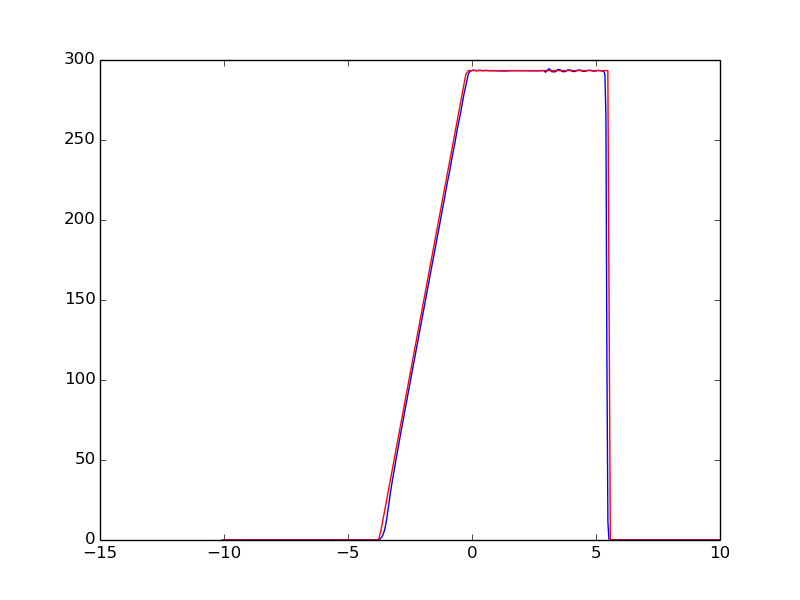
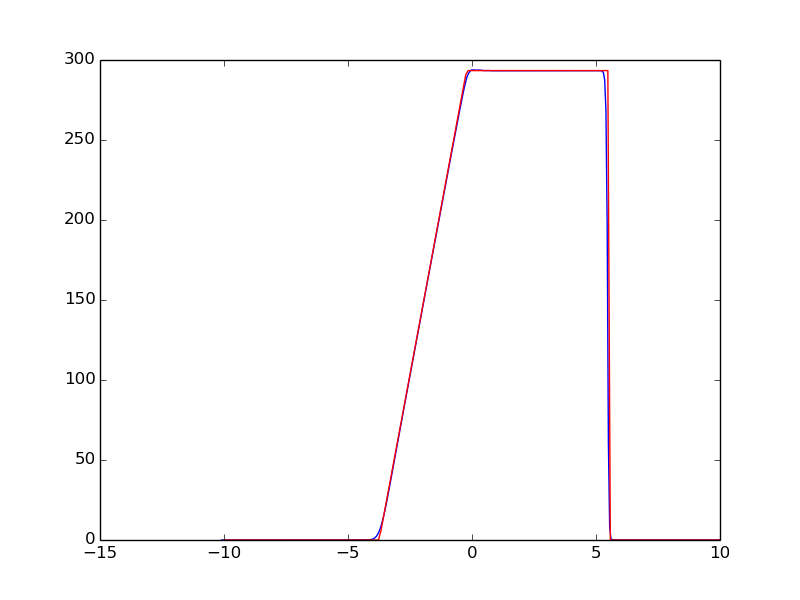
Refactoring all inputs to Initialize.cpp

diff --git a/Source/Advance.cpp b/Source/Advance.cpp
@@ -9,7 +9,7 @@
 int ND, nx, ny;
 double xmin, xmax;
 double gamma_air;
-double dx, dt;
+double dx, dt, t_end;
 
 std::vector<double> x;
 std::vector<Cell> cell;
@@ -54,32 +54,28 @@ void ComputeLimitedSlopes_PrimVar(std::vector<Cell> &cell)
 	
 	for(int i=0; i<=nx+1; i++){
 		for(int n=0; n<=ND+1; n++){
-			cell[i].slope_prim_var[n] = 0.0;
+			cell[i].slope[n] = 0.0;
 		}
 	}
 	
-	std::vector<double> prim(ND+2,0.0);
-
 	for(int i=0; i<=nx+1; i++){
-		ComputePrimitiveVariables(cell[i].cons_var, prim);
+		ComputePrimitiveVariables(cell[i].cons_var, cell[i].prim_var);
 	}
+
 
 	for(int i=0; i<=nx+1; i++){
 		for(int n=0; n<=ND+1; n++){
-			deltaU_left =  cell[i].cons_var[n]   - cell[i-1].cons_var[n];
-			deltaU_right = cell[i+1].cons_var[n] - cell[i].cons_var[n];
-			/*slope1 = minmod(deltaU_left    , 2.0*deltaU_right);
-			slope2 = minmod(2.0*deltaU_left, deltaU_right);
-			cell[i].slope[n] = maxmod(slope1, slope2);*/
+			deltaU_left =  cell[i].prim_var[n]   - cell[i-1].prim_var[n];
+			deltaU_right = cell[i+1].prim_var[n] - cell[i].prim_var[n];
+
+			// Superbee limiter
+			//slope1 = minmod(deltaU_left    , 2.0*deltaU_right);
+			//slope2 = minmod(2.0*deltaU_left, deltaU_right);
+			//cell[i].slope[n] = maxmod(slope1, slope2);
 
 			// Minmod limiter	
-			slope1 = minmod(deltaU_left    , deltaU_right);
-			cell[i].slope_prim_var[n] = slope1;	
-
-			// Van Leer MC limiter
-			//deltaU_central = cell[i+1].cons_var[n] - cell[i-1].cons_var[n];
-			//slope1 = minmod(deltaU_central, 2.0*deltaU_left, 2.0*deltaU_right);
-			//cell[i].slope[n] = slope1;	 
+			slope1 = minmod(deltaU_left, deltaU_right);
+			cell[i].slope[n] = slope1;	
 		}
 	}	
 }
@@ -91,7 +87,7 @@ void ComputeLimitedSlopes_ConsVar(std::vector<Cell> &cell)
 	
 	for(int i=0; i<=nx+1; i++){
 		for(int n=0; n<=ND+1; n++){
-			cell[i].slope_cons_var[n] = 0.0;
+			cell[i].slope[n] = 0.0;
 		}
 	}
 		
@@ -105,7 +101,7 @@ void ComputeLimitedSlopes_ConsVar(std::vector<Cell> &cell)
 
 			// Minmod limiter	
 			slope1 = minmod(deltaU_left    , deltaU_right);
-			cell[i].slope_cons_var[n] = slope1;	
+			cell[i].slope[n] = slope1;	
 
 			// Van Leer MC limiter
 			//deltaU_central = cell[i+1].cons_var[n] - cell[i-1].cons_var[n];
@@ -115,8 +111,8 @@ void ComputeLimitedSlopes_ConsVar(std::vector<Cell> &cell)
 	}	
 }
 
-template <class T>
-void ComputePrimitiveVariables(T &Q, std::vector<double> &prim)
+template <class T1, class T2>
+void ComputePrimitiveVariables(T1 &Q, T2 &prim)
 {
 	assert(Q[0] > 0.0);
 	assert(Q[ND+1] > 0.0);
@@ -228,7 +224,7 @@ void ComputeHLLCFluxOnFace(const std::vector<double> &QL, const std::vector<doub
 	ComputeHLLCFlux(SL, SR, FL, FR, S_star, FL_star, FR_star, iface);
 }
 
-void ComputeLeftAndRightStatesAndComputeFlux(std::vector<Cell> &cell, std::vector<Face> &face)
+void ComputeLeftAndRightConsVarStatesAndComputeFlux(std::vector<Cell> &cell, std::vector<Face> &face)
 {
 
 	std::vector<double> QL(ND+2,0.0), QR(ND+2,0.0);
@@ -237,14 +233,43 @@ void ComputeLeftAndRightStatesAndComputeFlux(std::vector<Cell> &cell, std::vecto
 	for(int i=2;i<=nx; i++){
 		// Compute left and right states. ie. all the conservative variables
 		for(int n=0;n<=ND+1;n++){
-			QL[n] = cell[i-1].cons_var[n] + 0.5*cell[i-1].slope_cons_var[n];  
-			QR[n] = cell[i].cons_var[n] - 0.5*cell[i].slope_cons_var[n];
+			QL[n] = cell[i-1].cons_var[n] + 0.5*cell[i-1].slope[n];  
+			QR[n] = cell[i].cons_var[n] - 0.5*cell[i].slope[n];
 		}
-		//printf("%d, %g, %g, %g\n", i, QL[0], QL[1], QL[2]);
-		//printf("%d, %g, %g, %g\n", i, QR[0], QR[1], QR[2]);
 		ComputeHLLCFluxOnFace(QL, QR, face[i]);	
 	}
 }
+
+void ComputeConservativeVariables(const std::vector<double> &P, std::vector<double> &Q) 
+{
+	
+	Q[0] = P[0];
+	Q[1] = P[0]*P[1];
+	Q[ND+1] = P[ND+1]/(gamma_air-1) + 0.5*P[0]*P[1]*P[1];
+	
+}
+
+void ComputeLeftAndRightPrimVarStatesAndComputeFlux(std::vector<Cell> &cell, std::vector<Face> &face)
+{
+
+	std::vector<double> PL(ND+2,0.0), PR(ND+2,0.0);
+	std::vector<double> QL(ND+2,0.0), QR(ND+2,0.0);
+
+	// Face loop over all faces
+	for(int i=2;i<=nx; i++){
+		// Compute left and right states. ie. all the conservative variables
+		for(int n=0;n<=ND+1;n++){
+			PL[n] = cell[i-1].prim_var[n] + 0.5*cell[i-1].slope[n];  
+			PR[n] = cell[i].prim_var[n] - 0.5*cell[i].slope[n];
+		}
+		ComputeConservativeVariables(PL, QL);
+		ComputeConservativeVariables(PR, QR);
+
+		ComputeHLLCFluxOnFace(QL, QR, face[i]);	
+	}
+}
+
+
 
 void BoundaryConditions(std::vector<Cell> &cell)
 {

diff --git a/Source/Riemann.H b/Source/Riemann.H
@@ -1,7 +1,7 @@
 class Cell{
 public:
     double cons_var[3], prim_var[3];
-	double slope_cons_var[3], slope_prim_var[3];
+	double slope[3];
 
 	//Cell(double rho_, double rhoU_, double rhoE_): 
 	//	rho(rho_), rhoU(rhoU_), rhoE(rhoE_) {};
@@ -16,7 +16,7 @@ extern int ND;
 extern int nx, ny;
 extern double xmin, xmax;
 extern double gamma_air;
-extern double dx, dt;
+extern double dx, dt, t_end;
 
 extern std::vector<double> x;
 extern std::vector<Cell> cell;
@@ -27,8 +27,9 @@ void ComputeLeftAndRightCells(const int i, Cell &cell_left, Cell &cell_right);
 double minmod(double a, double b);
 double maxmod(double a, double b);
 void ComputeLimitedSlopes_ConsVar(std::vector<Cell> &cell);
-template <class T>
-void ComputePrimitiveVariables(T &Q, std::vector<double> &prim);
+void ComputeLimitedSlopes_PrimVar(std::vector<Cell> &cell);
+template <class T1, class T2>
+void ComputePrimitiveVariables(T1 &Q, T2 &prim);
 void ComputeFluxes(const std::vector<double> &Q, std::vector<double> &flux);
 void ComputeQ_star(const std::vector<double> &Q, const double S_star, const double S,
                    const double rho, const double u, const double p,
@@ -40,7 +41,8 @@ void ComputeHLLCFlux(const double SL, const double SR,
                      const std::vector<double> &FL, const std::vector<double> &FR,
                      const double S_star, const std::vector<double> &FL_star, const std::vector<double> &FR_star,
                      Face &iface);
-void ComputeLeftAndRightStatesAndComputeFlux(std::vector<Cell> &cell, std::vector<Face> &face);
+void ComputeLeftAndRightConsVarStatesAndComputeFlux(std::vector<Cell> &cell, std::vector<Face> &face);
+void ComputeLeftAndRightPrimVarStatesAndComputeFlux(std::vector<Cell> &cell, std::vector<Face> &face);
 void ComputeHLLCFluxOnFace(const std::vector<double> &QL, const std::vector<double> &QR, Face &iface);
 void BoundaryConditions(std::vector<Cell> &cell);
 double ComputeTimeStep(const std::vector<Cell> &cell, const double CFL);

diff --git a/Source/main.cpp b/Source/main.cpp
@@ -14,12 +14,19 @@ int main(){
 	
 	// Time advance
 
-	double t_end = 0.02, time = 0.0;
+	double time = 0.0;
+
+	int niter = t_end/dt;
 	
-	for(int iter=1; iter<=400; iter++){
+	for(int iter=1; iter<niter; iter++){
 		//dt = ComputeTimeStep(cell, CFL);
-		ComputeLimitedSlopes_ConsVar(cell);
-		ComputeLeftAndRightStatesAndComputeFlux(cell, face);
+
+		//ComputeLimitedSlopes_ConsVar(cell);
+		//ComputeLeftAndRightConsVarStatesAndComputeFlux(cell, face);
+	
+		ComputeLimitedSlopes_PrimVar(cell);
+		ComputeLeftAndRightPrimVarStatesAndComputeFlux(cell, face);
+
 		std::cout << "Iteration is " << iter << " dt = " << dt << " " << "time = " << time << "\n";
 		for(int i=2; i<=nx-1; i++){
 			for(int n=0; n<=ND+1; n++){

diff --git a/Exec/Sod/Results/PlotSolution.py b/Exec/Sod/Results/PlotSolution.py
@@ -3,7 +3,7 @@ import numpy as np
 import glob
 
 
-for itern in np.arange(0,40,1):
+for itern in np.arange(0,80,1):
 	if(itern<=9):
 		solution_file = "../Solution_000" + str(itern) + ".txt";
 	elif(itern<=99):
@@ -20,8 +20,8 @@ for itern in np.arange(0,40,1):
 	pressure = (solution[:,3] - 0.5*solution[:,2]**2/solution[:,1])*0.4;
 	uvel = solution[:,2]/solution[:,1];
 
-	plt.plot(solution[:,0], solution[:,1])
-	#plt.plot(solution[:,0], pressure)
+	#plt.plot(solution[:,0], solution[:,1])
+	plt.plot(solution[:,0], pressure)
 	plt.axis("tight")
 	plt.pause(0.2)
 	plt.clf()

diff --git a/Exec/Sod/Initialize.cpp b/Exec/Sod/Initialize.cpp
@@ -9,14 +9,15 @@ void Initialize()
 {
 
     ND = 1;
-    nx = 501;
+    nx = 401;
     xmin = -10.0, xmax = 10.0;
     gamma_air = 1.4;
 
     double rhoL = 1.0, pL = 100000.0, uL = 0.0;
     double rhoR = 0.125, pR = 10000.0, uR = 0.0;
 	
-	dt = 2.5e-5;
+	dt = 1.25e-5;
+	t_end = 0.01;
 
     x.resize(nx+2);
     cell.resize(nx+2);

diff --git a/Exec/BlastWave/Initialize.cpp b/Exec/BlastWave/Initialize.cpp
@@ -14,10 +14,11 @@ void Initialize()
     gamma_air = 1.4;
 
     double rhoL = 1.0, pL = 1000.0, uL = 0.0;
-    double rhoC = 1.0, pC = 10.0  , uC = 0.0;
+    double rhoC = 1.0, pC = 0.01  , uC = 0.0;
     double rhoR = 1.0, pR = 100.0 , uR = 0.0;
 	
 	dt = 2.5e-5;
+	t_end = 0.038;
 
     x.resize(nx+2);
     cell.resize(nx+2);
